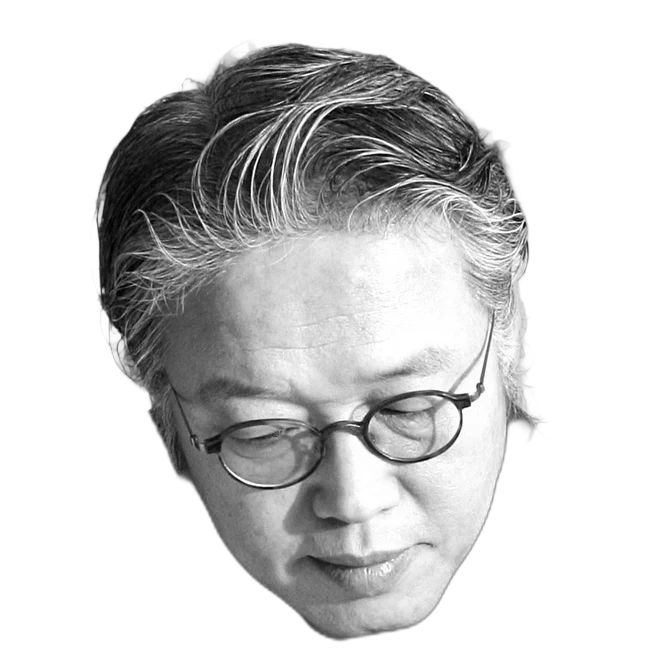
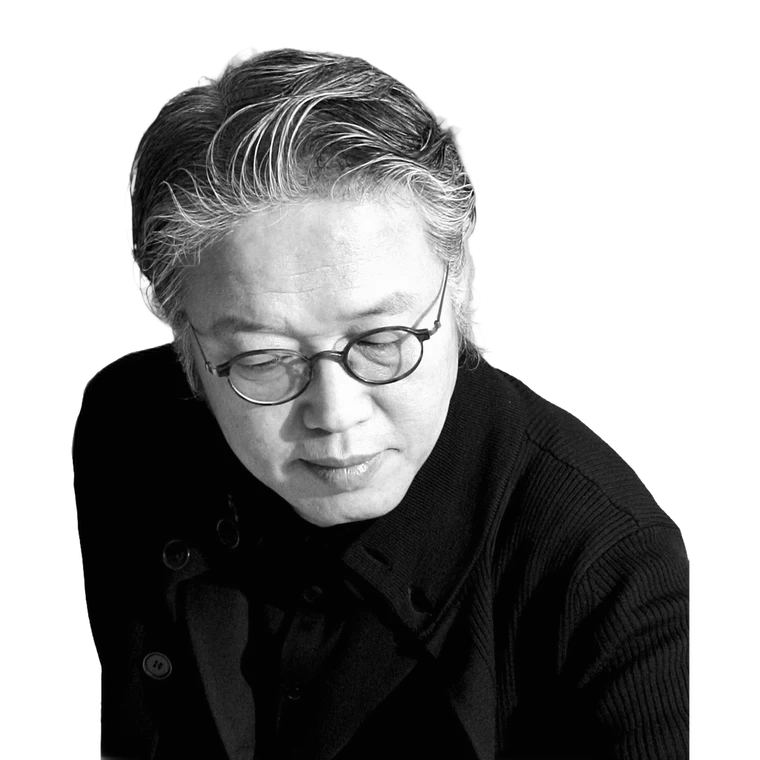
백아람 사진 교체
써클커넥션 이름 교체

diff --git a/js/content.js b/js/content.js
@@ -35,7 +35,7 @@ window.WCIF_CONTENT = {
         { "time": "15:55-16:10", "kor": { "title": "[기조연설] 문화기반의 도시 브랜딩", "who": "류재현(문화기획가)" }, "eng": { "title": "[Keynote] Culture-Based City Branding", "who": "Ryu Jae-hyun (Cultural Planner)" } },
         { "time": "16:10-17:00", "kor": { "title": "[대담] K-로컬 브랜딩의 글로벌 성공 전략", "who": "모더레이터 서병기(문화평론가) · 류재현(문화기획가), 노희영((주)식음연구소 대표), 유정수(글로우서울 대표)" }, "eng": { "title": "[Panel] Global Success Strategies for K-Local Branding", "who": "Moderator Suh Byung-ki (Culture Critic) · Ryu Jae-hyun, Noh Hee-young (CEO, F&B Research Institute), Yu Jung-su (CEO, Glow Seoul)" } },
         { "time": "", "kor": { "title": "Session 3 · 도시 콘텐츠", "who": "" }, "eng": { "title": "Session 3 · Urban Content", "who": "" } },
-        { "time": "17:00-17:50", "kor": { "title": "[대담] 도시콘텐츠의 새로운 엔진", "who": "모더레이터 이정우(써클커넥션 대표) · 최원석(프로젝트렌트 대표), 백아람(누리하우스 대표), 홍주석(어반플레이 대표)" }, "eng": { "title": "[Panel] New Engines of Urban Content", "who": "Moderator Lee Jung-woo (CEO, Circle Connection) · Choi Won-suk (CEO, Project Rent), Baek A-ram (CEO, Nurihaus), Hong Joo-suk (CEO, Urbanplay)" } },
+        { "time": "17:00-17:50", "kor": { "title": "[대담] 도시콘텐츠의 새로운 엔진", "who": "모더레이터 이정우((주)써클커넥션 대표) · 최원석(프로젝트렌트 대표), 백아람(누리하우스 대표), 홍주석(어반플레이 대표)" }, "eng": { "title": "[Panel] New Engines of Urban Content", "who": "Moderator Lee Jung-woo (CEO, Circle Connection, Inc.) · Choi Won-suk (CEO, Project Rent), Baek A-ram (CEO, Nurihaus), Hong Joo-suk (CEO, Urbanplay)" } },
         { "time": "", "kor": { "title": "환영 만찬", "who": "" }, "eng": { "title": "Welcome Dinner", "who": "" } },
         { "time": "18:00-20:00", "kor": { "title": "환영사 및 축사", "who": "추경호(대구광역시장), 오부치 유코(일본 국회 중의원)" }, "eng": { "title": "Welcome & Congratulatory Remarks", "who": "Choo Kyung-ho (Mayor of Daegu), Yuko Obuchi (Member of the House of Representatives, Japan)" } },
         { "time": "18:00-20:00", "kor": { "title": "7th WCIF AWARD", "who": "수상자: 이수만(A20엔터테인먼트 키 프로듀서)" }, "eng": { "title": "7th WCIF AWARD", "who": "Laureate: Lee Soo-man (Key Producer, A20 Entertainment)" } }
@@ -81,8 +81,8 @@ window.WCIF_CONTENT = {
     { "featured": false, "img": "images/speakers/suh-byungki.webp", "kor": { "name": "서병기", "title": "문화평론가" }, "eng": { "name": "Suh Byung-ki", "title": "Culture Critic" } },
     { "featured": true,  "img": "images/speakers/noh-heeyoung.webp", "kor": { "name": "노희영", "title": "(주)식음연구소 대표" }, "eng": { "name": "Noh Hee-young", "title": "CEO, F&B Research Institute" } },
     { "featured": false, "img": "images/speakers/yu-jungsu.webp", "kor": { "name": "유정수", "title": "글로우서울 대표" }, "eng": { "name": "Yu Jung-su", "title": "CEO, Glow Seoul" } },
-    { "featured": false, "img": "images/speakers/lee-jungwoo.webp", "kor": { "name": "이정우", "title": "씨클커넥션 대표" }, "eng": { "name": "Lee Jung-woo", "title": "CEO, Cycle Connection" } },
-    { "featured": false, "img": "https://wcif.world/wp-content/uploads/2026/05/Sub_12.백광현.png", "kor": { "name": "백광현", "title": "모드하우스 대표" }, "eng": { "name": "Baek Kwang-hyun", "title": "CEO, Modhaus" } },
+    { "featured": false, "img": "images/speakers/lee-jungwoo.webp", "kor": { "name": "이정우", "title": "(주)써클커넥션 대표" }, "eng": { "name": "Lee Jung-woo", "title": "CEO, Circle Connection, Inc." } },
+    { "featured": false, "img": "images/speakers/baek-kwanghyun.webp", "kor": { "name": "백광현", "title": "모드하우스 부대표" }, "eng": { "name": "Baek Kwang-hyun", "title": "Vice President, Modhaus" } },
     { "featured": true,  "img": "images/speakers/baek-aram.webp", "kor": { "name": "백아람", "title": "누리하우스 대표" }, "eng": { "name": "Baek A-ram", "title": "CEO, Nuri House" } },
     { "featured": false, "img": "images/speakers/hong-joosuk.webp", "kor": { "name": "홍주석", "title": "어반플레이 대표" }, "eng": { "name": "Hong Joo-suk", "title": "CEO, Urbanplay" } },
     { "featured": false, "img": "images/speakers/joo-hoyoung.webp", "kor": { "name": "주호영", "title": "한일의원연맹 회장" }, "eng": { "name": "Joo Ho-young", "title": "Chairman, Korea-Japan Parliamentarians' Union" } },
@@ -116,7 +116,7 @@ window.WCIF_CONTENT = {
     "서병기": { "kor": "서울신문과 헤럴드경제에서 대중문화 분야를 오래 담당해 온 문화평론가다. 헤럴드경제 대중문화 전문기자·선임기자로 K-pop과 방송·연예 현장을 취재했으며, 팟캐스트와 칼럼을 통해 대중문화 현상과 트렌드를 분석해 왔다.", "eng": "Suh Byung-ki is a cultural critic who covered popular culture for decades as senior entertainment correspondent at the Herald Business, analyzing K-pop and media trends through his podcast and columns.", "links": [{ "title": "서병기의 문화와 역사 (헤럴드경제 연재)", "url": "https://biz.heraldcorp.com/series/108" }] },
     "노희영": { "kor": "마켓오, 비비고, 계절밥상 등 200여 개의 브랜드를 기획한 대표적인 브랜드 기획자다. 오리온그룹 부사장, CJ그룹 브랜드전략 고문, YG푸즈 공동대표 등을 거쳐 현재 (주)식음연구소 대표로서 F&B와 라이프스타일 전반의 브랜드 기획과 컨설팅을 이끌고 있다.", "eng": "Noh Hee-young is one of Korea's foremost brand strategists, having created some 200 brands including Market O, Bibigo and Season's Table. She now leads F&B and lifestyle branding as CEO of the F&B Research Institute.", "links": [{ "title": "노희영 식음연구소 대표 인터뷰 (아주경제)", "url": "https://www.ajunews.com/view/20200527140843642" }] },
     "유정수": { "kor": "공간 기획·컨설팅 기업 글로우서울의 대표다. 글로우서울은 서울 익선동의 '글로우키친'을 시작으로 '청수당', '온천집' 등 화제의 공간을 선보였으며, 도시재생에서 출발해 지역에 어울리는 콘텐츠를 기획·개발하여 새로운 상권을 만드는 공간 솔루션 기업으로 성장했다.", "eng": "The CEO of Glow Seoul leads a spatial-content consulting firm that grew out of urban regeneration, creating landmark venues such as Glow Kitchen, Cheongsudang and Onjeonjip.", "links": [{ "title": "GLOW SEOUL 공식 사이트", "url": "https://glowseoul.co.kr/" }] },
-    "이정우": { "kor": "오프라인 이벤트·브랜드 캠페인 전문 에이전시 씨클커넥션(Circle Connection)의 대표다. 2012년 설립 이후 컨퍼런스, 전시, 해커톤, 토크콘서트 등 콘텐츠로 사람과 사람을 연결하는 행사를 기획·운영해 왔으며, 정부 기관과 주요 기업의 행사를 다수 진행했다.", "eng": "Lee Jung-woo is CEO of Circle Connection, an offline event and brand campaign agency founded in 2012, producing conferences, exhibitions and hackathons for government and major Korean companies.", "links": [{ "title": "씨클커넥션 이정우 대표 인터뷰 (전자신문)", "url": "https://www.etnews.com/201302040351" }] },
+    "이정우": { "kor": "오프라인 이벤트·브랜드 캠페인 전문 에이전시 (주)써클커넥션(Circle Connection, Inc.)의 대표다. 2012년 설립 이후 컨퍼런스, 전시, 해커톤, 토크콘서트 등 콘텐츠로 사람과 사람을 연결하는 행사를 기획·운영해 왔으며, 정부 기관과 주요 기업의 행사를 다수 진행했다.", "eng": "Lee Jung-woo is CEO of Circle Connection, Inc., an offline event and brand campaign agency founded in 2012, producing conferences, exhibitions and hackathons for government and major Korean companies.", "links": [{ "title": "씨클커넥션 이정우 대표 인터뷰 (전자신문)", "url": "https://www.etnews.com/201302040351" }] },
     "백광현": { "kor": "팬 참여형 K-pop 그룹 '트리플에스(tripleS)'를 선보인 엔터테인먼트 스타트업 모드하우스(Modhaus)의 공동창업자다. 베인앤컴퍼니와 플레이리스트 COO를 거쳐 2021년 모드하우스를 공동 설립했으며, 팬이 타이틀곡 선정 등 의사결정에 직접 참여하는 새로운 팬덤 비즈니스 모델을 만들어 왔다.", "eng": "Baek Kwang-hyun is co-founder of Modhaus, the K-pop startup behind fan-participatory idol group tripleS, where fans take part in creative decisions. He previously worked at Bain & Company and as COO of Playlist.", "links": [{ "title": "\"팬들이 직접 아이돌 제작 참여\" (이코노미조선)", "url": "https://economychosun.com/site/data/html_dir/2023/01/30/2023013000004.html" }] },
     "백아람": { "kor": "K뷰티 글로벌 진출 지원 플랫폼 누리하우스의 창업자이자 대표다. K뷰티 브랜드 '클레어스'의 위시컴퍼니를 공동 창업해 크로스보더 커머스 '위시트렌드'와 구독자 약 190만 명의 유튜브 채널을 만들었으며, 2020년 설립한 누리하우스를 통해 해외 크리에이터 마케팅으로 K뷰티 브랜드의 해외 진출을 지원하고 있다.", "eng": "Baek A-ram is founder and CEO of Nurihaus, a platform connecting K-beauty brands with global creators. She previously co-founded Wishcompany, building Wishtrend and its 1.9-million-subscriber YouTube channel.", "links": [{ "title": "백아람 누리하우스 대표 (뉴스1)", "url": "https://www.news1.kr/industry/distribution/5890525" }] },
     "홍주석": { "kor": "2013년 설립된 도시콘텐츠 전문기업 어반플레이(URBANPLAY)의 대표다. '도시에도 OS가 필요하다'는 미션 아래 동네의 유·무형 콘텐츠를 발굴해 공간과 서비스로 선보이며, 크리에이터 라운지 '연남장', 로컬 편집상점 '연남방앗간' 등 10개가 넘는 자체 브랜드를 만들었다.", "eng": "Hong Joo-suk is CEO of URBANPLAY, a local-content company founded in 2013 under the mission 'cities need an OS too,' creating more than ten local brands including Yeonnamjang.", "links": [{ "title": "홍주석 어반플레이 대표 \"로컬은 콘텐츠 실험장\" (더피알)", "url": "https://www.the-pr.co.kr/news/articleView.html?idxno=51609" }] },
